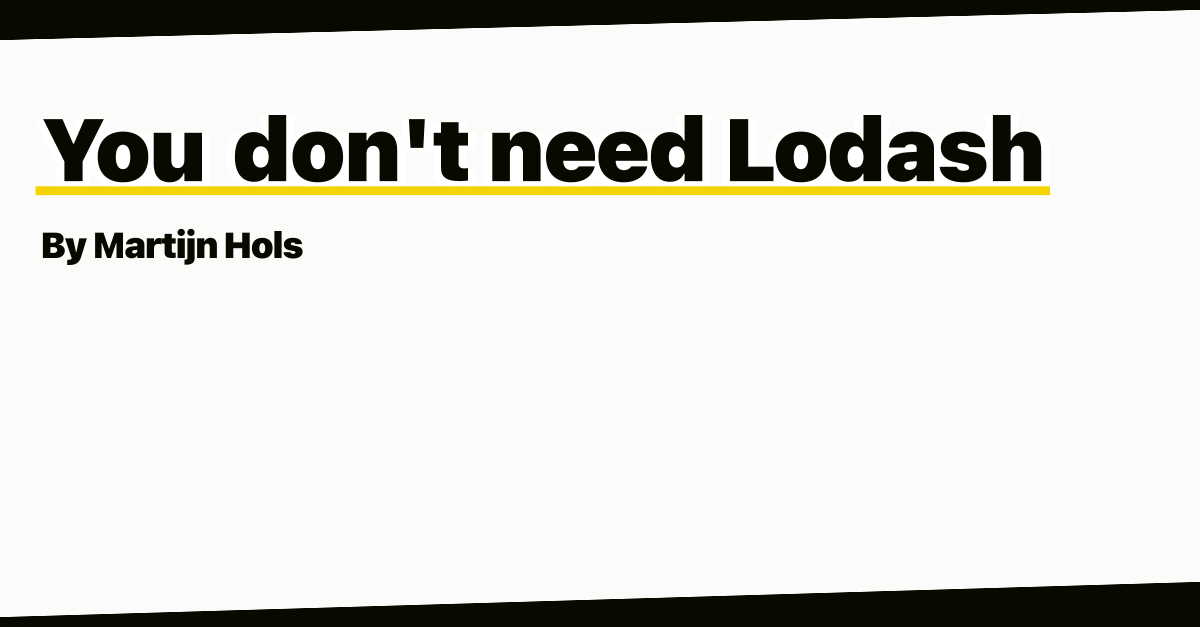
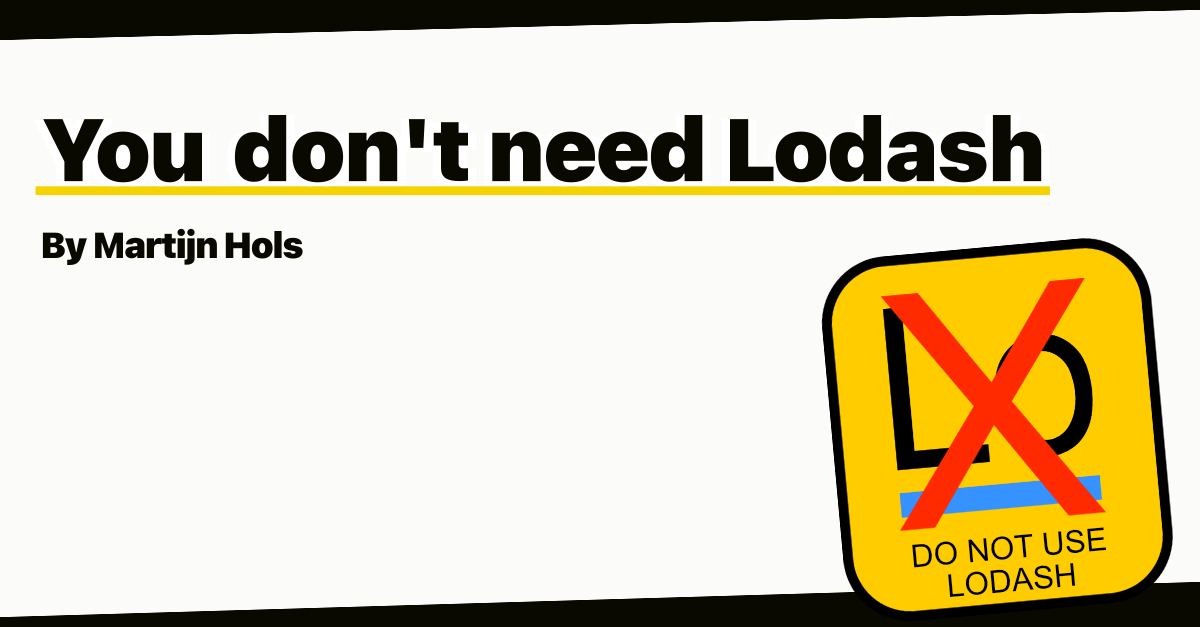
Add list image to lodash article

Changed region(s): [[0.6783, 0.3636, 0.9867, 1.0]]

diff --git a/pages/blog/you-dont-need-lodash.tsx b/pages/blog/you-dont-need-lodash.tsx
@@ -7,6 +7,7 @@ import Code from '../../components/Code'
 import Figure from '../../components/Figure'
 import Link from '../../components/Link'
 import articleMeta, { ArticleStaticProps } from '../../utils/articleMeta'
+import doNotUseLodashImage from './assets/do-not-use-lodash.png'
 import lodashImage from './assets/lodash.png'
 import openGraphImage from './assets/ogimage-you-dont-need-lodash.png'
 
@@ -16,6 +17,7 @@ const { meta, getStaticProps } = articleMeta({
   description:
     "And I reckon you shouldn't use it, or any libraries that you can solve natively just as well. Here's why.",
   openGraphImage: openGraphImage,
+  image: doNotUseLodashImage,
   publishedAt: '2024-11-28',
   updatedAt: '2024-12-03',
   tags: [

diff --git a/components/BlogArticleCard.tsx b/components/BlogArticleCard.tsx
@@ -143,7 +143,17 @@ const BlogArticleCard = ({ article }: Props) => (
       boxShadow={false}
       howTo={article.tags.includes(BlogArticleTag.HowTo)}
     >
-      {article.image && <Image src={article.image} width={200} alt="" />}
+      {article.image && (
+        <Image
+          src={article.image}
+          width={200}
+          height={150}
+          style={{
+            objectFit: 'contain',
+          }}
+          alt=""
+        />
+      )}
       <ArticleTextContainer>
         <ArticleTitle>{article.title}</ArticleTitle>
         <p>{article.description}</p>
